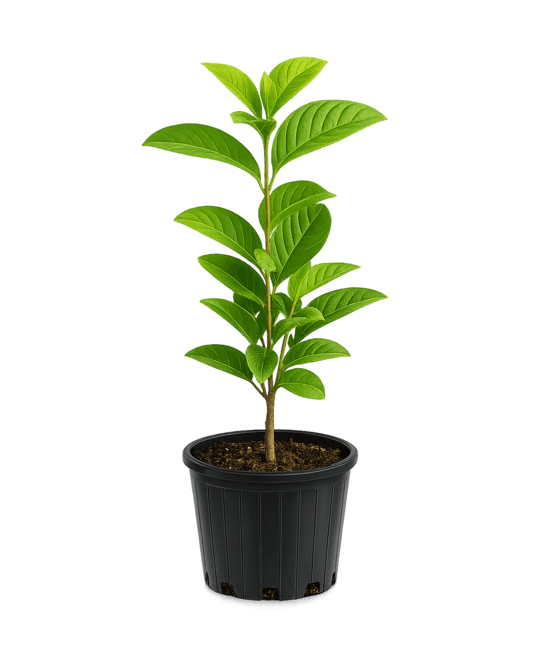
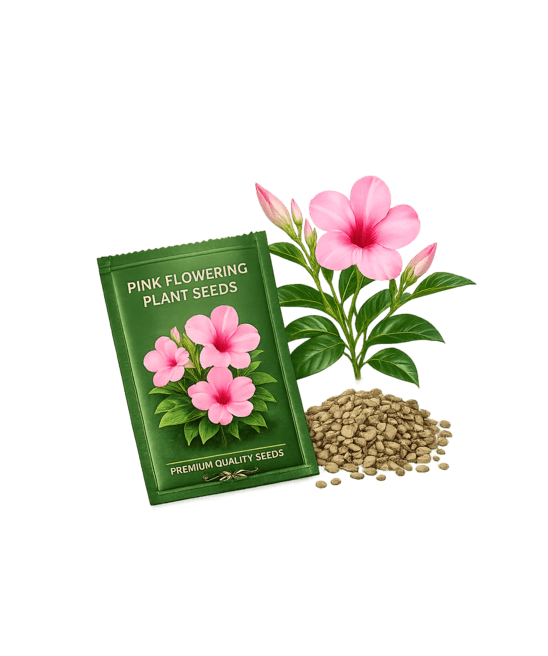
Frontend  Home Page UI Updated

diff --git a/frontend/src/app/page.tsx b/frontend/src/app/page.tsx
@@ -190,48 +190,33 @@ export default function HomePage() {
         <div className="hero-leaf3 wow fadeInUp" data-wow-delay="1.2s">
           <img src="/assets/img/hero/h-1-4.png" alt="hero leaf 3" />
         </div>
-        <div className="container">
-          {/* Slide 0 */}
-          {activeSlide === 0 && (
-            <div className="row gy-4 justify-content-between align-items-center animate-fade">
+        <div className="container" style={{ position: "relative" }}>
+          {[
+            { title: "High-Quality Plants & Saplings", text: "Premium organic saplings and custom-crafted fruit plants directly from our central nursery fields.", subtitle: "100% Certified Nursery Stock & Seeds.", img: "assets\\img\\hero\\h-1-1.png", imgAlt: "saplings" },
+            { title: "Pure & Certified Seeds Selection", text: "High-yield hybrid vegetable and flower seeds optimized for regional Indian soil conditions.", subtitle: "Tested for High Germination Rates.", img: "assets\\img\\hero\\h-1-22.png", imgAlt: "seeds display" },
+            { title: "Premium Nursery & Farm Supplies", text: "A complete range of organic garden soils, compost mixes, nutrients and planting assistance.", subtitle: "Direct Dispatch & Billing Ledger Support.", img: "assets\\img\\hero\\h-1-23.png", imgAlt: "nursery showcase" }
+          ].map((slide, idx) => (
+            <div
+              key={idx}
+              className="row gy-4 justify-content-between align-items-center"
+              style={{
+                opacity: activeSlide === idx ? 1 : 0,
+                visibility: activeSlide === idx ? "visible" : "hidden",
+                transition: "opacity 0.6s ease, visibility 0.6s ease",
+                position: activeSlide === idx ? "relative" : "absolute",
+                top: 0,
+                left: 0,
+                width: "100%",
+                pointerEvents: activeSlide === idx ? "auto" : "none"
+              }}
+            >
               <div className="col-xxl-6 col-xl-6 col-lg-8 mx-auto">
                 <div className="hero-content">
-                  <h1 className="hero-title">High-Quality Plants &amp; Saplings</h1>
-                  <p className="hero-text">Premium organic saplings and custom-crafted fruit plants directly from our central nursery fields.</p>
+                  <h1 className="hero-title">{slide.title}</h1>
+                  <p className="hero-text">{slide.text}</p>
                   <span className="hero-subtitle">
                     <img src="/assets/img/icons/i-1-1.png" alt="icon" />
-                    100% Certified Nursery Stock &amp; Seeds.
-                  </span>
-                  <div className="d-flex">
-                    <Link href="/products" className="vs-btn style1">Starfeature-imgt Shopping<i className="fas fa-long-arrow-right"></i></Link>
-                  </div>
-                </div>
-              </div>
-              <div className="col-xxl-auto col-xl-6 col-lg-8 mx-auto">
-                <div className="hero-img">
-                  <img src="assets\img\hero\h-1-1.png" alt="saplings" />
-                  <span className="circle"></span>
-                  {/* <div className="hero-certificate">
-                    <img src="/assets/img/logos/l-1-1.png" alt="logo" />
-                  </div> */}
-                  {/* <div className="hero-leaf">
-                    <img src="/assets/img/hero/h-1-2.png" alt="leaf decoration" />
-                  </div> */}
-                </div>
-              </div>
-            </div>
-          )}
-
-          {/* Slide 1 */}
-          {activeSlide === 1 && (
-            <div className="row gy-4 justify-content-between align-items-center animate-fade">
-              <div className="col-xxl-6 col-xl-6 col-lg-8 mx-auto">
-                <div className="hero-content">
-                  <h1 className="hero-title">Pure &amp; Certified Seeds Selection</h1>
-                  <p className="hero-text">High-yield hybrid vegetable and flower seeds optimized for regional Indian soil conditions.</p>
-                  <span className="hero-subtitle">
-                    <img src="/assets/img/icons/i-1-1.png" alt="icon" />
-                    Tested for High Germination Rates.
+                    {slide.subtitle}
                   </span>
                   <div className="d-flex">
                     <Link href="/products" className="vs-btn style1">Start Shopping<i className="fas fa-long-arrow-right"></i></Link>
@@ -240,49 +225,12 @@ export default function HomePage() {
               </div>
               <div className="col-xxl-auto col-xl-6 col-lg-8 mx-auto">
                 <div className="hero-img">
-                  <img src="assets\img\hero\h-1-22.png" alt="seeds display" />
+                  <img src={slide.img} alt={slide.imgAlt} />
                   <span className="circle"></span>
-                  {/* <div className="hero-certificate">
-                    <img src="/assets/img/logos/l-1-1.png" alt="logo" />
-                  </div> */}
-                  {/* <div className="hero-leaf">
-                    <img src="/assets/img/hero/h-1-2.png" alt="leaf decoration" />
-                  </div> */}
                 </div>
               </div>
             </div>
-          )}
-
-          {/* Slide 2 */}
-          {activeSlide === 2 && (
-            <div className="row gy-4 justify-content-between align-items-center animate-fade">
-              <div className="col-xxl-6 col-xl-6 col-lg-8 mx-auto">
-                <div className="hero-content">
-                  <h1 className="hero-title">Premium Nursery &amp; Farm Supplies</h1>
-                  <p className="hero-text">A complete range of organic garden soils, compost mixes, nutrients and planting assistance.</p>
-                  <span className="hero-subtitle">
-                    <img src="/assets/img/icons/i-1-1.png" alt="icon" />
-                    Direct Dispatch &amp; Billing Ledger Support.
-                  </span>
-                  <div className="d-flex">
-                    <Link href="/products" className="vs-btn style1">Start Shopping<i className="fas fa-long-arrow-right"></i></Link>
-                  </div>
-                </div>
-              </div>
-              <div className="col-xxl-auto col-xl-6 col-lg-8 mx-auto">
-                <div className="hero-img">
-                  <img src="assets\img\hero\h-1-23.png" alt="nursery showcase" />
-                  <span className="circle"></span>
-                  {/* <div className="hero-certificate">
-                    <img src="/assets/img/logos/l-1-1.png" alt="logo" />
-                  </div> */}
-                  {/* <div className="hero-leaf">
-                    <img src="/assets/img/hero/h-1-2.png" alt="leaf decoration" />
-                  </div> */}
-                </div>
-              </div>
-            </div>
-          )}
+          ))}
         </div>
 
         {/* Manual Slides Select */}

diff --git a/frontend/src/app/admin/page.tsx b/frontend/src/app/admin/page.tsx
@@ -1,10 +1,26 @@
-import { AdminShell } from "@/components/admin-shell";
-import { AdminDashboard } from "@/components/admin-dashboard";
+"use client";
+
+import { useEffect } from "react";
+import { useRouter } from "next/navigation";
+import { getStoredUser } from "@/lib/api";
 
 export default function AdminPage() {
+  const router = useRouter();
+
+  useEffect(() => {
+    const user = getStoredUser();
+    if (user) {
+      // Already logged in, redirect to dashboard
+      router.replace("/admin/dashboard");
+    } else {
+      // Not logged in, redirect to login
+      router.replace("/admin/login");
+    }
+  }, [router]);
+
   return (
-    <AdminShell>
-      <AdminDashboard />
-    </AdminShell>
+    <main className="section">
+      {/* <p className="meta">Redirecting...</p> */}
+    </main>
   );
 }

diff --git a/frontend/src/app/admin/dashboard/page.tsx b/frontend/src/app/admin/dashboard/page.tsx
@@ -1,0 +1,10 @@
+import { AdminShell } from "@/components/admin-shell";
+import { AdminDashboard } from "@/components/admin-dashboard";
+
+export default function DashboardPage() {
+  return (
+    <AdminShell>
+      <AdminDashboard />
+    </AdminShell>
+  );
+}

diff --git a/frontend/src/app/admin/login/page.tsx b/frontend/src/app/admin/login/page.tsx
@@ -20,7 +20,7 @@ export default function AdminLoginPage() {
   useEffect(() => {
     // If already logged in, redirect to dashboard
     if (getStoredUser()) {
-      router.replace("/admin");
+      router.replace("/admin/dashboard");
       return;
     }
 
@@ -43,7 +43,7 @@ export default function AdminLoginPage() {
         body: JSON.stringify({ email, password })
       });
       storeAdminSession(response.token, response.user);
-      router.replace("/admin");
+      router.replace("/admin/dashboard");
     } catch (error) {
       setStatus(error instanceof Error ? error.message : "Login failed");
     } finally {

diff --git a/frontend/src/components/admin-shell.tsx b/frontend/src/components/admin-shell.tsx
@@ -7,7 +7,7 @@ import { Banknote, BarChart3, Boxes, CalendarCheck, ClipboardList, CreditCard, F
 import { clearAdminSession, getStoredUser, type AdminUser } from "@/lib/api";
 
 const links = [
-  { href: "/admin", label: "Dashboard", icon: ClipboardList, permission: "dashboard:read" },
+  { href: "/admin/dashboard", label: "Dashboard", icon: ClipboardList, permission: "dashboard:read" },
   { href: "/admin/products", label: "Products", icon: Package, permission: "products:read" },
   { href: "/admin/categories", label: "Categories", icon: Tags, permission: "products:read" },
   { href: "/admin/inventory", label: "Inventory", icon: Boxes, permission: "inventory:read" },
@@ -57,7 +57,7 @@ export function AdminShell({ children }: { children: React.ReactNode }) {
     if (!user) return;
 
     function handlePopState() {
-      router.replace("/admin");
+      router.replace("/admin/dashboard");
     }
 
     window.addEventListener("popstate", handlePopState);